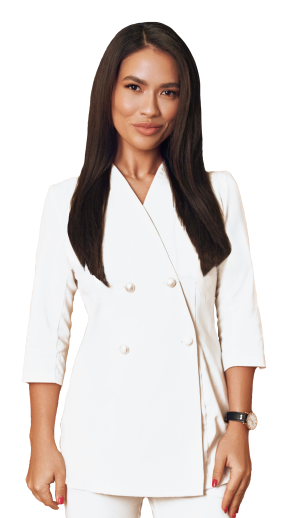
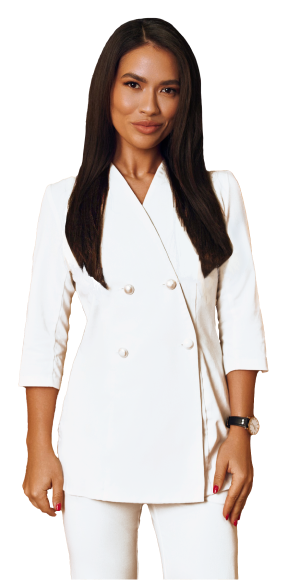
change images

diff --git a/public/css/adaptive.css b/public/css/adaptive.css
@@ -251,8 +251,17 @@
         margin-bottom: 30px;
     }
 
+    .section-title::before,
+    .section-title::after {
+        width: 70px;
+    }
+
     .section-title::before {
-        left: -130px;
+        left: -86px;
+    }
+
+    .section-title::after {
+        right: -86px;
     }
 
     .btn.btn--low {
@@ -488,12 +497,13 @@
     }
 
     .services .item {
-        width: 200px;
+        width: 50%;
         height: 200px;
+        overflow: hidden;
     }
 
     .services__list.services__list--adaptive {
-        max-width: 400px;
+        max-width: 100%;
     }
 
     .services__main-btn {
@@ -512,18 +522,22 @@
     .main-about__title {
         width: 300px;
     }
+
+    .section-title::before,
+    .section-title::after {
+        width: 35px;
+    }
+
+    .section-title::before {
+        left: -51px;
+    }
+
+    .section-title::after {
+        right: -51px;
+    }
 }
 
 @media (max-width: 425px) {
-    .services__list.services__list--adaptive {
-        max-width: 380px;
-    }
-
-    .services .item {
-        width: 190px;
-        height: 190px;
-    }
-
     .services .item__title {
         font-size: 1.1rem;
         margin-bottom: 20px;

diff --git a/public/css/style.css b/public/css/style.css
@@ -296,6 +296,11 @@ body {
     width: 100%;
 }
 
+.intro__img {
+    display: flex;
+    align-items: end;
+}
+
 /* 
     ? Главный about
 */
